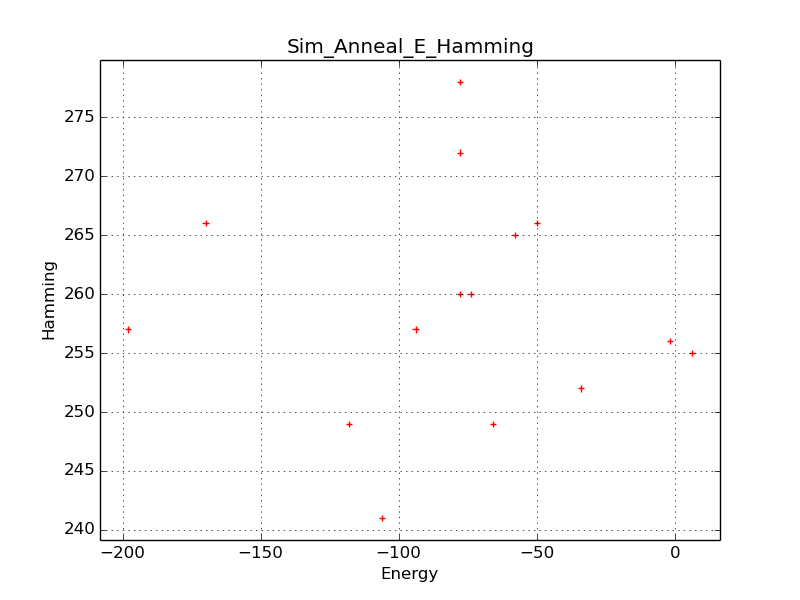
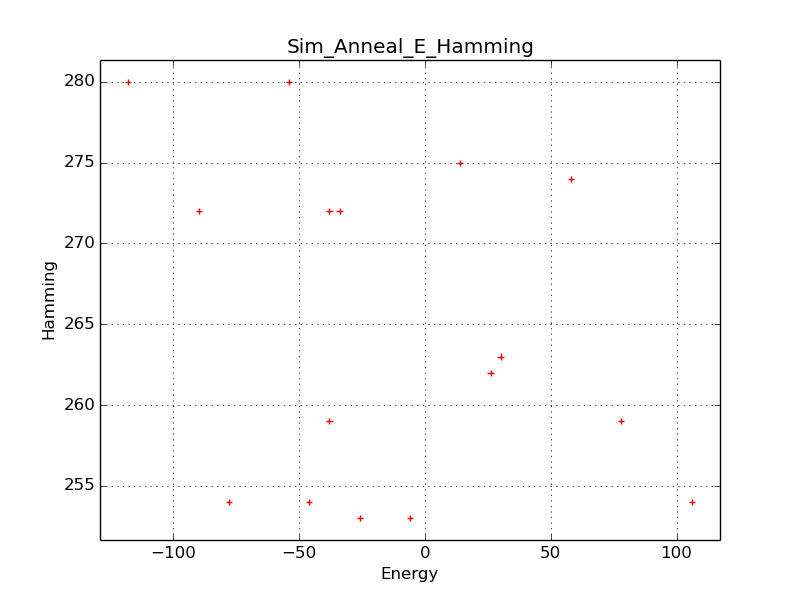
Speed up the whole process, tweaked some parameters.

diff --git a/data.py b/data.py
@@ -89,6 +89,7 @@ class Instance(object):
             self.nb_sg,
             self.id,
         )
+        self.filename = filename
         directory = os.path.dirname(os.path.abspath(__file__))
         directory = os.path.join(directory, INSTANCES_DIR)
         file = open(directory + filename, 'r')
@@ -129,7 +130,7 @@ class Instance(object):
         misc.imsave(directory, img)
 
     @timeit
-    def run_SA(self, T=10, c=0.9, n_iter=100, n_sweeps=10, T_min=1):
+    def run_SA(self, T=10, c=0.9, n_sweeps=10, T_min=1):
         """
             Implements a simulated annealing procedure
             to find the lowest energy for this given instance problem
@@ -140,7 +141,7 @@ class Instance(object):
         scores = [old_cost, ]
         temperatures = [T, ]
         hammings = [hamming_distance(sol, self.config), ]
-        print 'Current best: ', old_cost
+        print 'Current best for ', self.id, ' ', old_cost, ' config: ', self.min_cost
         while T > T_min:
             accept_prob = T * log(random())
             for sweep in xrange(n_sweeps):
@@ -157,18 +158,18 @@ class Instance(object):
                 temperatures.append(T)
                 hammings.append(hamming_distance(sol, self.config))
                 # Plotting:
-                plotLines([[temperatures, scores], ],
-                          title='Sim_Anneal_T_E', xlabel='T',
-                          ylabel='Energy', xscale='log')
-                plotLines([[temperatures, hammings], ],
-                          title='Sim_Anneal_T_Hamming', xlabel='T',
-                          ylabel='Hamming', xscale='log')
-                multiPlot([[scores, hammings], ],
-                          title='Sim_Anneal_E_Hamming', xlabel='Energy',
-                          ylabel='Hamming')
-                plot3D([temperatures, hammings, scores], title='3D_E_T_Ham',
-                       xlabel='T', ylabel='Hamming', zlabel='E')
-        print 'Found best for ', self.id, ' ', old_cost
+                # plotLines([[temperatures, scores], ],
+                #           title='Sim_Anneal_T_E', xlabel='T',
+                #           ylabel='Energy', xscale='log')
+                # plotLines([[temperatures, hammings], ],
+                #           title='Sim_Anneal_T_Hamming', xlabel='T',
+                #           ylabel='Hamming', xscale='log')
+                # multiPlot([[scores, hammings], ],
+                #           title='Sim_Anneal_E_Hamming', xlabel='Energy',
+                #           ylabel='Hamming')
+                # plot3D([temperatures, hammings, scores], title='3D_E_T_Ham',
+                #        xlabel='T', ylabel='Hamming', zlabel='E')
+        print 'Found best for ', self.id, ' ', old_cost, ' config: ', self.min_cost
         return (sol, old_cost)
 
     def run_GA(self):

diff --git a/main.py b/main.py
@@ -15,6 +15,7 @@ from data import (
 )
 from pdb import set_trace as debug
 from multiprocessing.pool import Pool
+import cPickle as pk
 
 
 def parse_instance(file):
@@ -44,22 +45,33 @@ def get_all_instances(nb_sg=None, nb_qubits=None, id=None):
 
 
 def pool_SA(instance):
+    print 'Started task on instance', instance.filename
     start = time.time()
     while True:
-        conf, cost = instance.run_SA()
+        conf, cost = instance.run_SA(
+            T=10,
+            c=0.927,
+            n_sweeps=1000,
+            T_min=0.00001
+        )
         if cost == instance.min_cost:
             break
     end = time.time()
-    return (end - start)
+    return (instance.filename, (end - start))
 
 if __name__ == '__main__':
-    data = Instance(nb_sg=504, id=199)
-    print 'Cost of config:', data.get_cost(data.config)
-    print 'Timing: ', data.timing
-    sa = data.run_SA(T=10)
-    print 'Simulated Annealing: ', sa[1]
+    # data = Instance(nb_sg=504, id=199)
+    # print 'Cost of config:', data.get_cost(data.config)
+    # print 'Timing: ', data.timing
+    # sa = data.run_SA(T=10)
+    # print 'Simulated Annealing: ', sa[1]
     print 'Loading all instances...'
-    instances = get_all_instances(nb_sg=420, id=199)
-    print 'Solving all instances...'
-    p = Pool()
-    score = p.map(pool_SA, instances)
+    nb_sg = 420
+    instances = get_all_instances(nb_sg=nb_sg)
+    p = Pool(processes=1)
+    for epoch in xrange(10):
+        print 'Solving all instances...'
+        scores = p.map(pool_SA, instances)
+        f = open('runtimes_nbsg' + str(nb_sg) + '_' + str(epoch) + '.pkl')
+        pk.dump(scores, f, protocol=-1)
+        f.close()
